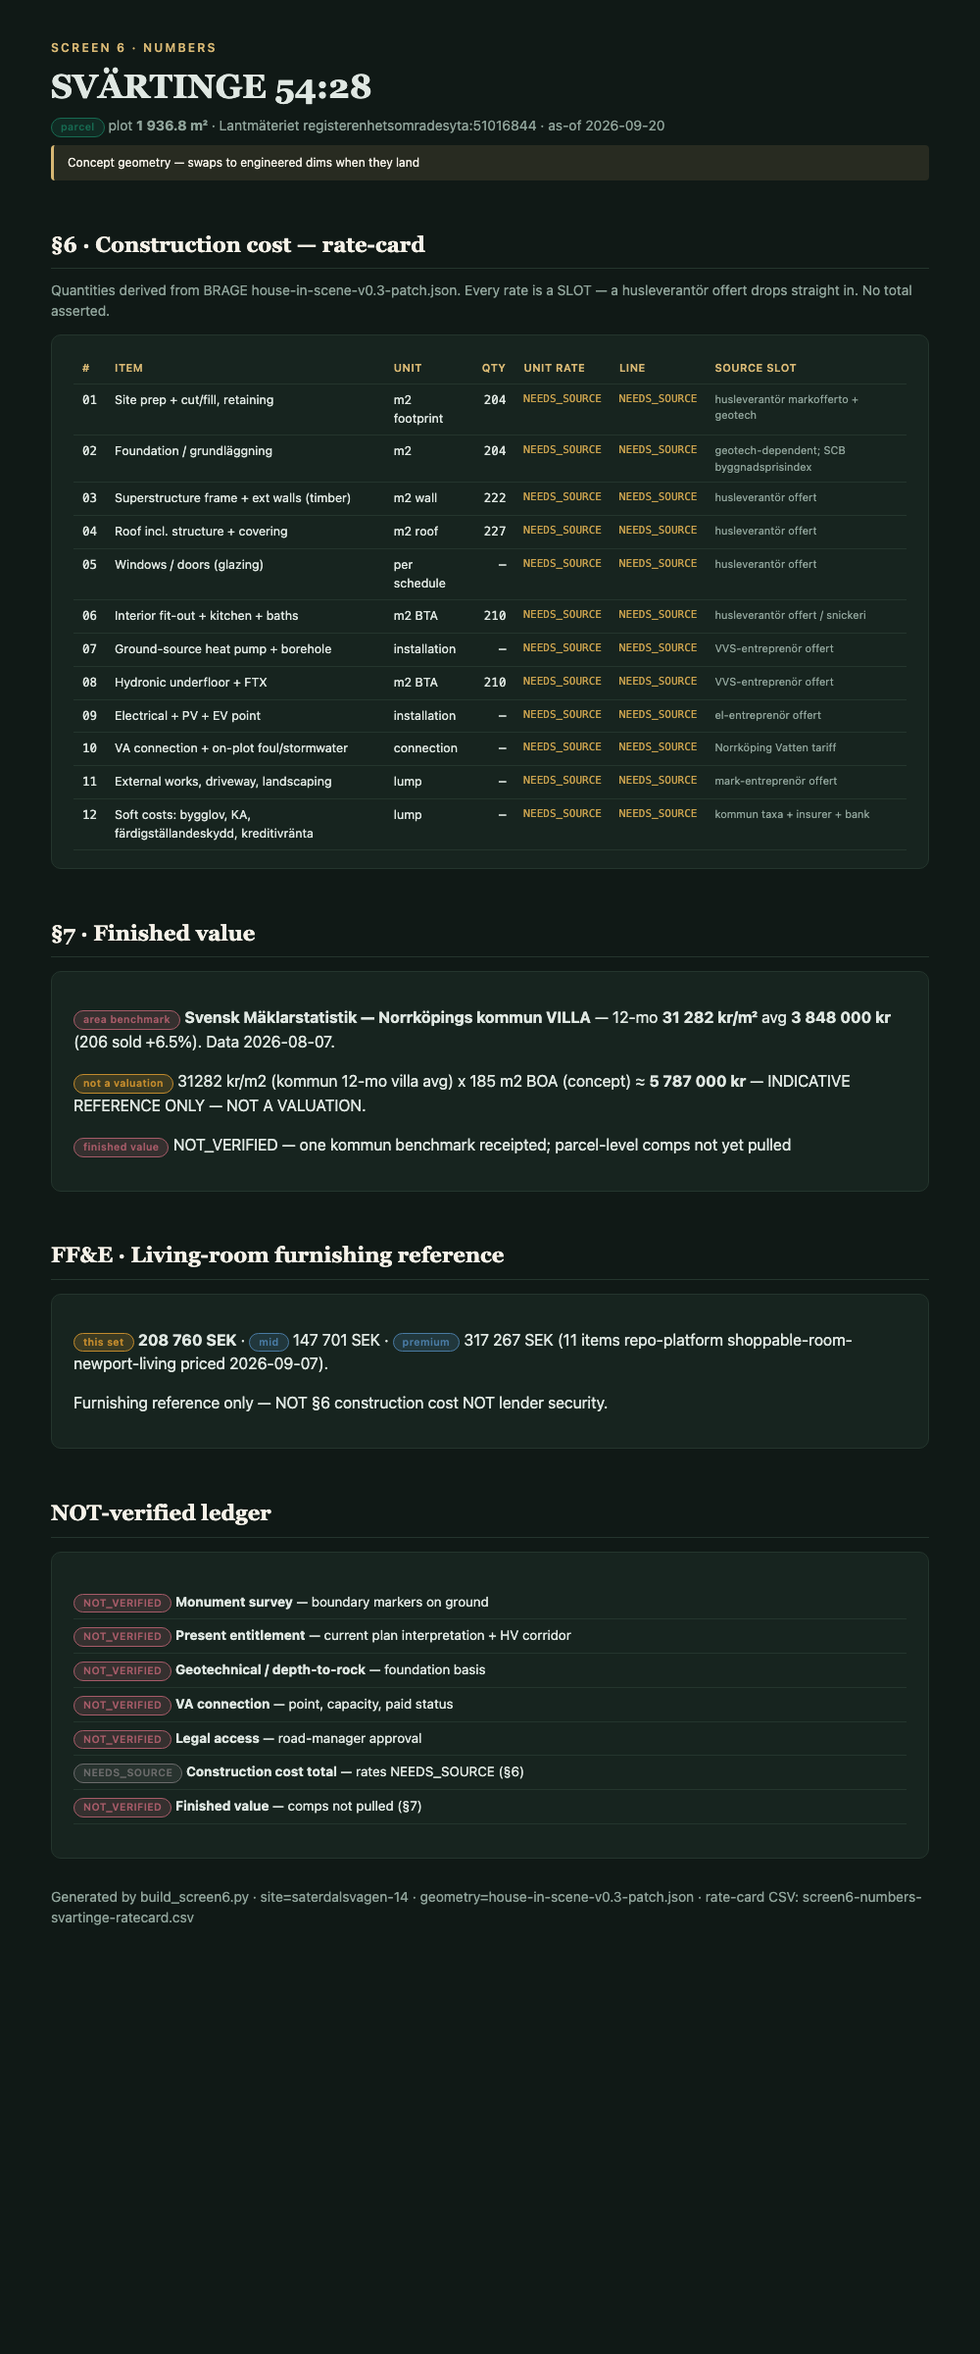
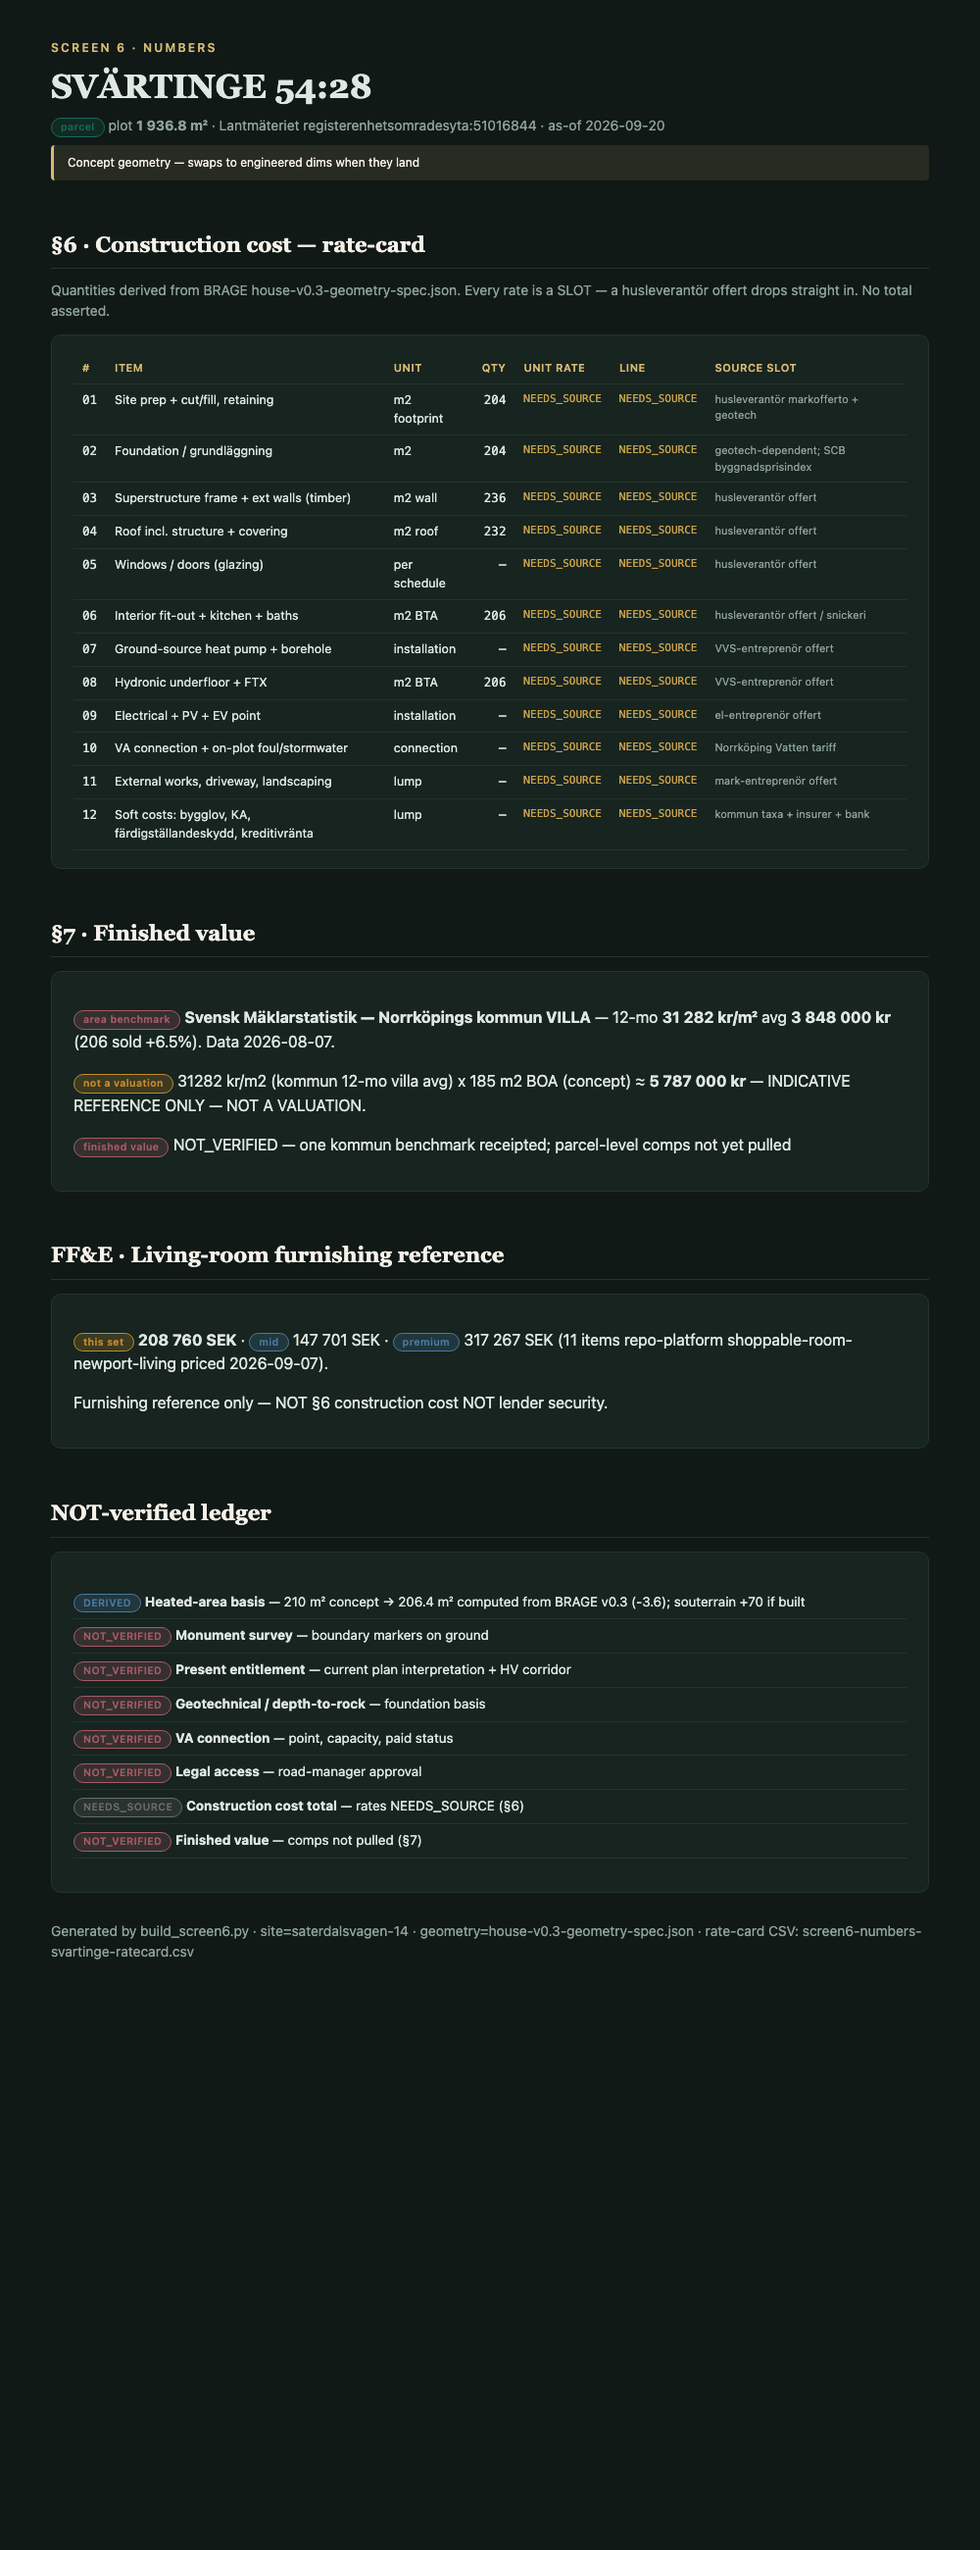
MIMER: re-derive §6 from BRAGE house-v0.3-geometry-spec (computed, not typed)
Per Brain (BRAGE v0.3 committed 7a37f92 supersedes the 210 m² concept). build_bom.py
now reads house-v0.3-geometry-spec.json and COMPUTES quantities from the room polygons
(shoelace areas + shapely union outline + roof math), asserting every total against the
spec's own area_summary:
  BYA 204 · heated 206.4 excl / 276.4 incl souterrain · cold garage 40 · upper 42.4
  · souterrain 70 · ext wall 236 (74 m outline x3.0 + 14 gable ends) · roof 232 (bar
  gable 191 + wing mono 41) · glazing 82 (S 44) · terrace 136. Rates stay NEEDS_SOURCE;
  no total. build_screen6.py maps the new metrics + adds the reconciliation ledger chip
  '210 concept -> 206.4 computed (-3.6); souterrain +70 if built'. Screen 6 re-rendered
  from the v0.3 spec (screenshot updated). Dossier §5/§6/§10 updated in vault; SEK-guard
  passes (only receipted/labelled money figures).

diff --git a/scripts/mimer/build_bom.py b/scripts/mimer/build_bom.py
@@ -1,94 +1,140 @@
 #!/usr/bin/env python3
 """MIMER §6 — receipted QUANTITY take-off (BoM skeleton) for the WINNER house
-"Vinkelhuset mot Glan" (BRAGE design, 2026-09-01 mandate).
-Truth law: quantities are DERIVED from BRAGE's developed scene geometry
-(house-in-scene-v0.3-patch.json) via shoelace on the real element polygons, and
-receipted to that file. Geometry class is CONCEPT (all envelope/terrain/access
-gates open per BRAGE evidence_policy). Unit RATES are NOT invented — each line
-carries rate=null + a named authoritative price source. No SEK total is asserted.
-Swap to BRAGE developed (engineered) dims when they land."""
-import json
-V="/Users/oskarpeterson/Documents/Opero/Concept Casa/Projects/Svärtinge 54.28 ( MIMER )/07-Lender-Dossier"
-BRAGE="/Users/oskarpeterson/Documents/AI/product twin/repo-brage/OPEN AI/Säterdalsvägen 14 - Svärtinge/04-House-Design/BRAGE/geometry/house-in-scene-v0.3-patch.json"
-patch=json.load(open(BRAGE))
-el={e["id"]:e for e in patch["add_elements"]}
+"Vinkelhuset mot Glan", re-derived from BRAGE house-v0.3-geometry-spec.json
+(spec BRAGE_SE_SVARTINGE_54_28_HOUSE_V03, commit 7a37f92).
+
+Truth law: quantities are COMPUTED from the v0.3 room polygons (shoelace areas,
+shapely union for the building outline, roof math from the roof spec) — NOT typed.
+Each computed total is asserted against the spec's own area_summary. Geometry class
+is CONCEPT (envelope/terrain/FFL gates open). Unit RATES stay NEEDS_SOURCE; no total."""
+import json, math, os
+from shapely.geometry import Polygon
+from shapely.ops import unary_union
+
+ROOT="/Users/oskarpeterson/Documents/AI/product twin"
+SPEC=f"{ROOT}/repo-brage/OPEN AI/Säterdalsvägen 14 - Svärtinge/04-House-Design/BRAGE/geometry/house-v0.3-geometry-spec.json"
+PATCH=f"{ROOT}/repo-brage/OPEN AI/Säterdalsvägen 14 - Svärtinge/04-House-Design/BRAGE/geometry/house-in-scene-v0.3-patch.json"
+OUT="/Users/oskarpeterson/Documents/Opero/Concept Casa/Projects/Svärtinge 54.28 ( MIMER )/07-Lender-Dossier/06-cost-bom-quantity-takeoff-v0.1.json"
+
+spec=json.load(open(SPEC))
+rooms=spec["rooms"]; roof=spec["roof"]; wing=spec["wing_roof"]; summ=spec["area_summary"]
 
 def shoelace(p):
     s=0
-    for i in range(len(p)):
-        x0,z0=p[i]; x1,z1=p[(i+1)%len(p)]; s+=x0*z1-x1*z0
+    for i in range(len(p)): x0,z0=p[i]; x1,z1=p[(i+1)%len(p)]; s+=x0*z1-x1*z0
     return abs(s)/2
-def perim(p):
-    d=0
-    for i in range(len(p)):
-        x0,z0=p[i]; x1,z1=p[(i+1)%len(p)]; d+=((x1-x0)**2+(z1-z0)**2)**0.5
-    return d
 
-bar=el["HOUSE_BAR"]["geometry"]; wing=el["HOUSE_WING_N"]["geometry"]; terr=el["TERRACE_SOUTH"]["geometry"]
-bar_a=shoelace(bar["points_xz"]); wing_a=shoelace(wing["points_xz"]); terr_a=shoelace(terr["points_xz"])
-bar_h=bar["height_m"]; wing_h=wing["height_m"]
-ground_foot=bar_a+wing_a                      # BYA indicative
-upper_bta=round(bar_a*0.5)                     # 1.5-plan over EAST HALF of bar (per 04-WINNER-DEVELOPED)
-heated_bta=round(bar_a+upper_bta)              # bar ground + upper half
-cold_wing=round(wing_a)                        # garage/service (unheated)
-# external wall: bar + wing perimeters minus the shared bar<->wing party segment (X[3,9] at Z=3 = 6 m, counted twice)
-shared=6.0
-ext_perim=round(perim(bar["points_xz"])+perim(wing["points_xz"])-2*shared,1)
-ext_wall_ground=round(ext_perim*bar_h)
-import math
-roof_slope=round(ground_foot/math.cos(math.radians(26)))   # asymmetric gable ~26deg
-south_glass_run=round(bar["points_xz"][1][0]-bar["points_xz"][0][0])  # bar S frontage length (X span) = 20 m
+# ---- per-storey + heated/cold from polygons ------------------------------------------------
+by={}; heated_excl=0.0; heated_incl=0.0; cold=0.0
+for r in rooms:
+    a=shoelace(r["footprint_xz"])
+    assert abs(a-r["floor_area_m2"])<0.6, f"{r['id']} polygon {a} != declared {r['floor_area_m2']}"
+    by[r["storey"]]=by.get(r["storey"],0)+a
+    if r["heated"]:
+        heated_incl+=a
+        if r["storey"]!="SOUTERRAIN": heated_excl+=a
+    else: cold+=a
+for k,v in by.items(): by[k]=round(v,1)
+heated_excl=round(heated_excl,1); heated_incl=round(heated_incl,1); cold=round(cold,1)
+
+# ---- BYA + exterior wall from the union outline of the GROUND storey -----------------------
+ground_polys=[Polygon(r["footprint_xz"]) for r in rooms if r["storey"]=="GROUND"]
+outline=unary_union(ground_polys)
+bya=round(outline.area,1)
+ext_perim=round(outline.exterior.length,1)
+ext_wall_ground=round(ext_perim*roof["wall_plate_Y"])          # perimeter x plate height
+gable_ends=round(2*(0.5*roof["span_m"]*roof["ridge_height_above_plate_m"]),1)  # two triangles
+ext_wall_incl_gables=round(ext_wall_ground+gable_ends)
+
+# ---- assertions against the spec's own area_summary (computed, not typed) ------------------
+assert bya==summ["ground_footprint_m2"], (bya,summ["ground_footprint_m2"])
+assert heated_excl==summ["heated_m2_excl_souterrain"], (heated_excl,summ["heated_m2_excl_souterrain"])
+assert heated_incl==summ["heated_m2_incl_souterrain"], (heated_incl,summ["heated_m2_incl_souterrain"])
+assert cold==summ["cold_m2"], (cold,summ["cold_m2"])
+
+# ---- roof: bar gable (both planes 30 deg) + cold wing mono-pitch (15 deg) ------------------
+ridge_len=math.dist(roof["ridge_xz"][0],roof["ridge_xz"][1])
+plane_slope=(roof["span_m"]/2)/math.cos(math.radians(roof["pitch_deg"]))+roof["eaves_overhang_m"]
+bar_roof=round(2*(ridge_len+2*roof["eaves_overhang_m"])*plane_slope,1)
+garage=[r for r in rooms if r["id"]=="ROOM_GARAGE"][0]; ga=shoelace(garage["footprint_xz"])
+wing_roof=round(ga/math.cos(math.radians(wing["pitch_deg"]))*1.0,1)
+roof_slope=round(bar_roof+wing_roof,1)
+
+# ---- glazing from the per-room openings (sum area) ----------------------------------------
+glazing=round(sum((o.get("area_m2") or 0) for r in rooms for o in r.get("openings",[])),1)
+south_glass=round(sum((o.get("area_m2") or 0) for r in rooms for o in r.get("openings",[]) if o.get("wall")=="SOUTH"),1)
+
+# ---- terrace: house spec is house-only; take TERRACE_SOUTH from the v0.3 scene patch -------
+terr=None
+if os.path.exists(PATCH):
+    p=json.load(open(PATCH))
+    for e in p.get("add_elements",[]):
+        if e["id"]=="TERRACE_SOUTH" and e.get("geometry",{}).get("points_xz"):
+            terr=round(shoelace(e["geometry"]["points_xz"]),1)
 
 def line(code,desc,qty,unit,src,note=""):
     return {"code":code,"item":desc,"quantity":qty,"unit":unit,"unit_rate_SEK":None,
             "rate_status":"NEEDS_SOURCE","price_source":src,"line_cost_SEK":None,"note":note}
 
 bom={
- "schema":"mimer-bom-quantity-takeoff/v0.2","subject":"SVÄRTINGE 54:28",
- "house":"Vinkelhuset mot Glan (WINNER)","as_of":"2026-09-01",
- "evidence_class":"DERIVED_QUANTITIES(CONCEPT geometry) / RATES_NOT_VERIFIED",
- "derived_from":"BRAGE house-in-scene-v0.3-patch.json (PATCH_SE_SVARTINGE_54_28_VINKELHUSET_V03) — shoelace on the real element polygons; receipted to that file",
- "geometry_gate_note":"BRAGE evidence_policy: all geometry CONCEPT; open gates = registered_area(now AUTHORITATIVE via parcel #21), legal_boundary(extent AUTHORITATIVE), BYA_BTA, terrain_DTM_slope_FFL, legal_access, utility_capacity. Swap to engineered dims when BRAGE developed set lands.",
+ "schema":"mimer-bom-quantity-takeoff/v0.3","subject":"SVÄRTINGE 54:28",
+ "house":"Vinkelhuset mot Glan (WINNER)","as_of":"2026-09-20",
+ "evidence_class":"COMPUTED_QUANTITIES(CONCEPT geometry) / RATES_NOT_VERIFIED",
+ "derived_from":"BRAGE house-v0.3-geometry-spec.json (BRAGE_SE_SVARTINGE_54_28_HOUSE_V03, commit 7a37f92) — computed via shoelace + shapely union + roof math; asserted against the spec area_summary",
+ "supersedes":"v0.2 take-off from house-in-scene-v0.3-patch.json (concept 210 m² heated)",
+ "geometry_gate_note":"BRAGE evidence_policy: all geometry CONCEPT. Registered area/extent AUTHORITATIVE (parcel #21); BYA/BTA, terrain_DTM_slope_FFL, legal_access, utility_capacity OPEN.",
  "concept_metrics":{
-   "bar_footprint_m2":round(bar_a,1),"wing_footprint_m2":round(wing_a,1),
-   "ground_footprint_BYA_m2":round(ground_foot,1),"upper_1_5plan_BTA_m2":upper_bta,
-   "heated_BTA_m2":heated_bta,"cold_wing_m2":cold_wing,"total_enclosed_m2":heated_bta+cold_wing,
-   "ext_wall_perimeter_m":ext_perim,"ext_wall_ground_gross_m2":ext_wall_ground,
-   "roof_slope_m2":roof_slope,"south_glass_frontage_m":south_glass_run,"terrace_deck_m2":round(terr_a,1)},
- "truth_note":"Quantities are provisional CONCEPT take-offs from the WINNER geometry (not engineered; monument survey + geotech + FFL open). NO unit rate is asserted; NO total is computed.",
+   "ground_footprint_BYA_m2":bya,
+   "heated_BTA_excl_souterrain_m2":heated_excl,
+   "heated_BTA_incl_souterrain_m2":heated_incl,
+   "heated_BTA_m2":heated_excl,   # primary heated figure used downstream = excl souterrain
+   "cold_wing_garage_m2":cold,
+   "upper_1_5plan_m2":by.get("UPPER"),
+   "souterrain_m2":by.get("SOUTERRAIN"),
+   "ext_wall_perimeter_m":ext_perim,
+   "ext_wall_ground_gross_m2":ext_wall_ground,
+   "ext_wall_gable_ends_m2":gable_ends,
+   "ext_wall_incl_gables_m2":ext_wall_incl_gables,
+   "roof_slope_m2":roof_slope,
+   "roof_bar_gable_m2":bar_roof,
+   "roof_wing_mono_m2":wing_roof,
+   "glazing_total_m2":glazing,
+   "south_glazing_m2":south_glass,
+   "terrace_deck_m2":terr},
+ "brief_reconciliation":summ["brief_reconciliation"],
+ "truth_note":"Quantities COMPUTED from v0.3 room polygons and asserted against the spec's area_summary (206.4 heated excl souterrain, not the 210 concept in the sprint brief). Geometry CONCEPT. NO unit rate asserted; NO total computed.",
  "cost_drivers_flagged":[
-   "Foundation/grundläggning is the live variable — depth-to-rock varies ~0-22 m nearby (dossier §3); WEST_SOUTERRANG upgrade is conditional on the 1 m DTM south-fall >= ~2.5 m (BRAGE conditional_upgrade) and is EXCLUDED from base quantities.",
-   "L-plan (bar + cold wing) shortens the heated envelope vs a square box — a cost-favourable parti, but the wing adds its own foundation + roof."],
+   "Souterrain (70 m² heated incl.) adds a lower-level slab + retaining against the NE bank — conditional on the 1 m DTM south-fall; it lifts heated area from 206.4 to 276.4 if built.",
+   "Foundation/grundläggning is the live variable — depth-to-rock varies ~0-22 m nearby (dossier §3); rate cannot be set before the plot geotechnical result."],
  "lines":[
-  line("01","Site prep + cut/fill on shelf, retaining to NE bank",round(ground_foot,1),"m2 footprint","husleverantör markofferto + geotech","souterräng west-end EXCLUDED (conditional on DTM)"),
-  line("02","Foundation / grundläggning (bar + wing, flat-plot datum)",round(ground_foot,1),"m2","geotech-dependent; SCB byggnadsprisindex mark/grund","THE cost driver — see §3"),
-  line("03","Superstructure frame + ext walls (timber, tjärsvart trähus)",ext_wall_ground,"m2 wall","husleverantör offert (Eksjöhus/kataloghus à-pris)","+ upper-half gable walls TBD from developed section"),
-  line("04","Asymmetric gable roof (standing-seam sheet, PV-ready S plane)",roof_slope,"m2 roof","husleverantör offert"),
-  line("05","South glazing (alu-clad timber, ~"+str(south_glass_run)+" m S frontage) + fully-glazed Glanrummet",None,"per schedule","husleverantör offert","schedule TBD from drawings — the signature feature"),
-  line("06","Interior fit-out + kitchen + baths (heated BTA)",heated_bta,"m2 BTA","husleverantör offert / snickeri à-pris"),
+  line("01","Site prep + cut/fill on shelf, retaining to NE bank",bya,"m2 footprint","husleverantör markofferto + geotech","souterrain lower slab conditional on DTM"),
+  line("02","Foundation / grundläggning (bar + wing)",bya,"m2","geotech-dependent; SCB byggnadsprisindex mark/grund","THE cost driver — see §3"),
+  line("03","Superstructure frame + ext walls (timber, tjärsvart trähus)",ext_wall_incl_gables,"m2 wall","husleverantör offert (Eksjöhus/kataloghus à-pris)","= "+str(ext_wall_ground)+" ground + "+str(gable_ends)+" gable ends"),
+  line("04","Gable roof 30° (standing-seam) + cold-wing mono 15°",roof_slope,"m2 roof","husleverantör offert","bar "+str(bar_roof)+" + wing "+str(wing_roof)),
+  line("05","Glazing (alu-clad timber triple), incl. Glanrummet",glazing,"m2 glazing","husleverantör offert","of which "+str(south_glass)+" m² south"),
+  line("06","Interior fit-out + kitchen + baths (heated BTA excl souterrain)",heated_excl,"m2 BTA","husleverantör offert / snickeri à-pris"),
   line("07","Ground-source heat pump (bergvärme) + borehole",1,"installation","VVS-entreprenör offert; borrning per m","permit near Övre Svärtinge groundwater body (§3)"),
-  line("08","Hydronic underfloor + FTX ventilation (heated BTA)",heated_bta,"m2 BTA","VVS-entreprenör offert","short runs off the placed House Heart"),
+  line("08","Hydronic underfloor + FTX ventilation (heated BTA)",heated_excl,"m2 BTA","VVS-entreprenör offert","short runs off the placed House Heart"),
   line("09","Electrical + PV (S gable plane) + EV point in garage",1,"installation","el-entreprenör offert; PV per kWp"),
-  line("10","Cold garage/service wing fit (unheated)",cold_wing,"m2","husleverantör offert","resale checkbox + wind screen"),
+  line("10","Cold garage/service wing fit (unheated)",cold,"m2","husleverantör offert","resale checkbox + wind screen"),
   line("11","VA connection + on-plot gravity foul + stormwater soakaway",1,"connection","Norrköping Vatten anslutningsavgift (published tariff) + grävning","gravity fall ~1:15, no pump (§4)"),
-  line("12","External works: driveway (grade <=1:12 per 1936 plan), terrace deck ("+str(round(terr_a))+" m2), vindficka windbreak, landscaping",None,"lump","mark-entreprenör offert"),
+  line("12","External works: driveway (grade <=1:12 per 1936 plan), terrace deck"+(f" ({terr} m2)" if terr else "")+", vindficka windbreak, landscaping",None,"lump","mark-entreprenör offert"),
   line("13","Soft costs: bygglov/anslutning fees, KA, färdigställandeskydd, byggkreditiv ränta",1,"lump","Norrköping kommun taxa + insurer + bank","§9 statutory stack")
  ],
  "excluded_conditional":[
-   {"id":"WEST_SOUTERRANG","reason":"conditional on 1 m DTM south-fall >= ~2.5 m; do not model until DTM closes (BRAGE)"},
-   {"id":"OPT_SAUNA_POD","reason":"optional outbuilding; not in base scope"}],
+   {"id":"WEST_SOUTERRANG","reason":"conditional on 1 m DTM south-fall >= ~2.5 m; adds the 70 m² souterrain heated area + lower slab"}],
  "unit_rate_sources_to_obtain":[
-   "SCB — Priser för nyproducerade småhus / Byggnadsprisindex (BPI) — authoritative national benchmark",
-   "Husleverantör bindande offert (Eksjöhus or equivalent) — the primary line-item source",
-   "VVS/el/mark sub-contractor offerter for systems + groundworks",
-   "Norrköping Vatten VA-anslutningstaxa + Norrköping kommun bygglovstaxa (published)",
-   "Geoteknisk undersökning — sets lines 01-02 (the driver)"],
- "next":"Fill rates from a husleverantör offert + SCB benchmark, reconcile, then compute line_cost + total. Swap CONCEPT dims for BRAGE engineered dims when they land. Until then the total is deliberately null."
+   "SCB — Priser för nyproducerade småhus / Byggnadsprisindex (BPI)",
+   "Husleverantör bindande offert (Eksjöhus or equivalent) — primary line-item source",
+   "VVS/el/mark sub-contractor offerter",
+   "Norrköping Vatten VA-anslutningstaxa + kommun bygglovstaxa",
+   "Geoteknisk undersökning — sets lines 01-02"],
+ "next":"Fill rates from a husleverantör offert + SCB benchmark, reconcile, compute total. Until then total is null."
 }
-open(f"{V}/06-cost-bom-quantity-takeoff-v0.1.json","w").write(json.dumps(bom,ensure_ascii=False,indent=2))
+open(OUT,"w").write(json.dumps(bom,ensure_ascii=False,indent=2))
 m=bom["concept_metrics"]
-print("Vinkelhuset BoM:",len(bom['lines']),"lines")
-print(" bar",m["bar_footprint_m2"],"wing",m["wing_footprint_m2"],"| BYA",m["ground_footprint_BYA_m2"],
-      "| heated BTA",m["heated_BTA_m2"],"cold",m["cold_wing_m2"],"total enclosed",m["total_enclosed_m2"])
-print(" ext perim",m["ext_wall_perimeter_m"],"wall",m["ext_wall_ground_gross_m2"],"roof",m["roof_slope_m2"],
-      "S-glass",m["south_glass_frontage_m"],"terrace",m["terrace_deck_m2"])
+print("v0.3 BoM (COMPUTED, asserted vs area_summary):")
+print(f"  BYA {m['ground_footprint_BYA_m2']} | heated excl {m['heated_BTA_excl_souterrain_m2']} incl {m['heated_BTA_incl_souterrain_m2']} | cold {m['cold_wing_garage_m2']} | upper {m['upper_1_5plan_m2']} | souterrain {m['souterrain_m2']}")
+print(f"  ext perim {m['ext_wall_perimeter_m']} -> wall {m['ext_wall_ground_gross_m2']} +gables {m['ext_wall_gable_ends_m2']} = {m['ext_wall_incl_gables_m2']}")
+print(f"  roof {m['roof_slope_m2']} (bar {m['roof_bar_gable_m2']} + wing {m['roof_wing_mono_m2']}) | glazing {m['glazing_total_m2']} (S {m['south_glazing_m2']}) | terrace {m['terrace_deck_m2']}")
+print(f"  brief reconciliation: {bom['brief_reconciliation']['brief_figure_m2']} concept -> {bom['brief_reconciliation']['computed_m2']} computed ({bom['brief_reconciliation']['difference_m2']})")

diff --git a/scripts/mimer/build_screen6.py b/scripts/mimer/build_screen6.py
@@ -93,8 +93,9 @@ def bom_metrics(vault):
     if not b or "concept_metrics" not in b: return None
     m=b["concept_metrics"]
     return {"ground_footprint_BYA_m2":m.get("ground_footprint_BYA_m2"),
-            "ext_wall_gross_m2":m.get("ext_wall_ground_gross_m2") or m.get("ext_wall_gross_m2"),
+            "ext_wall_gross_m2":m.get("ext_wall_incl_gables_m2") or m.get("ext_wall_ground_gross_m2") or m.get("ext_wall_gross_m2"),
             "roof_slope_m2":m.get("roof_slope_m2"),"heated_BTA_m2":m.get("heated_BTA_m2"),
+            "reconciliation":b.get("brief_reconciliation"),
             "spec_id":b.get("derived_from","committed BoM").split("(")[0].strip()}
 
 def build(site_dir,geo_path,vault,out_html):
@@ -146,7 +147,13 @@ def build(site_dir,geo_path,vault,out_html):
         ffe_html=f'<p>{chip("NEEDS_SOURCE","FF&E")} No room composition bound for this site.</p>'
 
     # ---- ledger ----
-    LEDGER=[("Monument survey","boundary markers on ground","NOT_VERIFIED"),
+    recon = metrics.get("reconciliation") if metrics else None
+    LEDGER=[]
+    if recon:
+        LEDGER.append(("Heated-area basis",
+          f'{recon["brief_figure_m2"]} m² concept → {recon["computed_m2"]} m² computed from BRAGE v0.3 ({recon["difference_m2"]}); souterrain +70 if built',
+          "DERIVED"))
+    LEDGER+=[("Monument survey","boundary markers on ground","NOT_VERIFIED"),
             ("Present entitlement","current plan interpretation + HV corridor","NOT_VERIFIED"),
             ("Geotechnical / depth-to-rock","foundation basis","NOT_VERIFIED"),
             ("VA connection","point, capacity, paid status","NOT_VERIFIED"),
